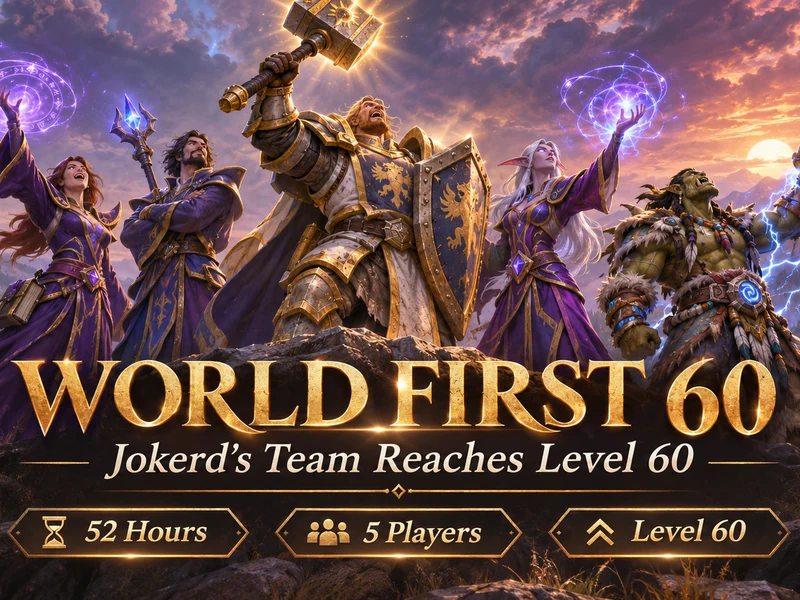
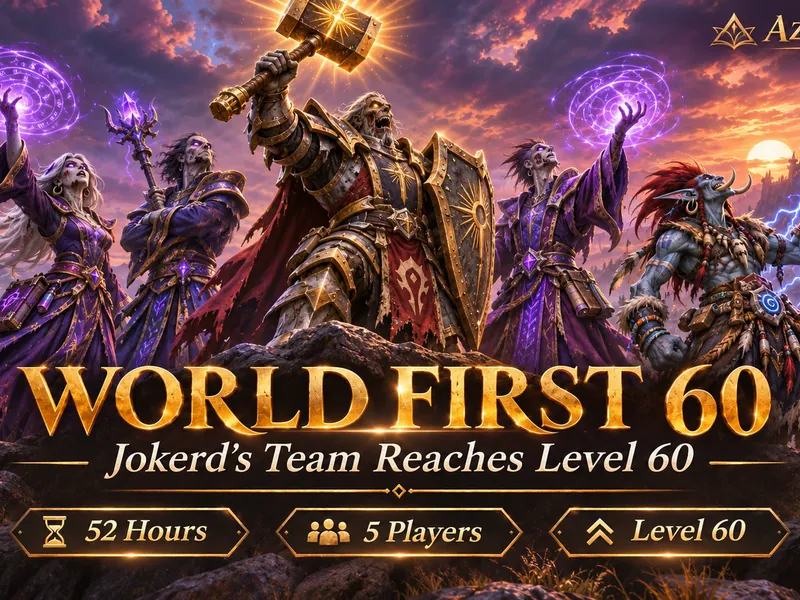
feat(news): swap in Horde World First 60 poster, drop sources block, rebalance footer
- New owner-supplied poster (3 Undead Mages, Undead Paladin, Troll Shaman, AzerDex logo); variants re-exported from the new master.
- Remove the closing Sources and notes section from the article.
- SiteFooter: two-column top row, legal text moved to a full-width, smaller, quieter row; content and links unchanged.

Claude-Session: https://claude.ai/code/session_012Roc8RkotZc4RdkaZrsvDp

diff --git a/web/src/components/SiteFooter.tsx b/web/src/components/SiteFooter.tsx
@@ -4,30 +4,32 @@ import { ConsentSettingsButton } from "@/components/consent/ConsentSettingsButto
 export function SiteFooter() {
   return (
     <footer className="mt-16 border-t border-ink-700/80 bg-ink-950">
-      <div className="mx-auto grid max-w-7xl gap-8 px-4 py-10 text-sm text-mist md:grid-cols-3">
-        <div>
-          <p className="font-[family-name:var(--font-display)] text-base text-gold-300">AzerDex</p>
-          <p className="mt-1 text-xs uppercase tracking-[0.2em] text-mist">Know Your World.</p>
-          <p className="mt-2 leading-relaxed">
-            A community-collected, observation-based database for World of Warcraft: Forever, built from the ForeverDB
-            addon and Companion. Percentages are <strong className="text-parchment">observed sample rates</strong>,
-            not official drop chances.
-          </p>
+      <div className="mx-auto max-w-7xl px-4 py-10 text-sm text-mist">
+        <div className="grid gap-8 md:grid-cols-[minmax(0,1.4fr)_minmax(0,1fr)] md:gap-16">
+          <div className="max-w-xl">
+            <p className="font-[family-name:var(--font-display)] text-lg text-gold-300">AzerDex</p>
+            <p className="mt-1 text-xs uppercase tracking-[0.2em] text-mist">Know Your World.</p>
+            <p className="mt-3 leading-relaxed">
+              A community-collected, observation-based database for World of Warcraft: Forever, built from the ForeverDB
+              addon and Companion. Percentages are <strong className="text-parchment">observed sample rates</strong>,
+              not official drop chances.
+            </p>
+          </div>
+          <nav aria-label="Footer">
+            <ul className="grid grid-cols-2 gap-x-6 gap-y-2.5">
+              <li><Link href="/about/data">How the data works</Link></li>
+              <li><Link href="/about/privacy">Privacy</Link></li>
+              <li><ConsentSettingsButton /></li>
+              <li><Link href="/addon-companion">Addon &amp; Companion</Link></li>
+              <li><Link href="/news/rss.xml">RSS feed</Link></li>
+              <li><Link href="/zones">All zones</Link></li>
+              <li><a href="https://github.com/Imemoth/wow-foreverdb" rel="noopener noreferrer">Source on GitHub</a></li>
+            </ul>
+          </nav>
         </div>
-        <nav aria-label="Footer">
-          <ul className="grid grid-cols-2 gap-2">
-            <li><Link href="/about/data">How the data works</Link></li>
-            <li><Link href="/about/privacy">Privacy</Link></li>
-            <li><ConsentSettingsButton /></li>
-            <li><Link href="/addon-companion">Addon &amp; Companion</Link></li>
-            <li><Link href="/news/rss.xml">RSS feed</Link></li>
-            <li><Link href="/zones">All zones</Link></li>
-            <li><a href="https://github.com/Imemoth/wow-foreverdb" rel="noopener noreferrer">Source on GitHub</a></li>
-          </ul>
-        </nav>
         {/* "Independent, free, non-commercial fan project" is an explicit, owner-approved designation. Changes to project
             ownership, licensing, commercial status or monetization wording need explicit owner approval. */}
-        <p className="leading-relaxed">
+        <p className="mt-8 border-t border-ink-700/60 pt-6 text-xs leading-relaxed text-mist/75">
           AzerDex is an independent, free, non-commercial fan project and is not affiliated with or endorsed by Blizzard Entertainment, Inc.
           World of Warcraft and related names are trademarks or registered trademarks of Blizzard Entertainment, Inc.
           &copy; Blizzard Entertainment, Inc. All rights reserved. Zone map images, talent and ability names, descriptions

diff --git a/web/tests/unit/world-first-article.test.ts b/web/tests/unit/world-first-article.test.ts
@@ -15,7 +15,7 @@ import { pickLeadArticle } from "@/components/news/NewsFeatureLead";
 const SLUG = "jokerd-team-world-first-level-60-wow-forever";
 const PUBLIC = join(process.cwd(), "public");
 const article = loadAllArticles().find((a) => a.slug === SLUG)!;
-const bodyText = article.body.split("## Sources and notes")[0]!;
+const bodyText = article.body;
 
 function webpSize(file: string): { width: number; height: number } {
   const b = readFileSync(file);
@@ -55,17 +55,12 @@ describe("world first article: content", () => {
 
   it("is never presented as an official Blizzard announcement and invents no quotes", () => {
     expect(bodyText).toMatch(/not a Blizzard announcement/i);
-    expect(article.body).toMatch(/not affiliated with Blizzard/i);
     expect(bodyText).not.toMatch(/[“"][^"”\n]{12,}[”"]/); // no quoted speech in the body
   });
 
-  it("cites the three primary sources over https and hotlinks no competitor images", () => {
-    const urls = [...article.body.matchAll(/\]\((https:\/\/[^)\s]+)\)/g)].map((m) => m[1]!);
-    expect(urls).toEqual(expect.arrayContaining([
-      "https://www.wowhead.com/forever/news/world-first-level-60s-in-wow-forever-in-less-than-three-days-383797",
-      "https://www.icy-veins.com/wow-forever/news/three-mages-a-paladin-and-a-shaman-hit-level-60-first-in-wow-forever/",
-      "https://www.warcrafttavern.com/forever/news/world-first-level-60s-in-wow-forever-paladin-shaman-3-mages/",
-    ]));
+  it("renders no closing sources block and hotlinks no external or competitor images", () => {
+    expect(extractGuideToc(article.body).map((t) => t.text.toLowerCase())).not.toContain("sources and notes");
+    expect(article.body).not.toMatch(/https?:\/\//);
     expect(article.body).not.toMatch(/!\[/);
   });
 

diff --git a/docs/azerdex-world-first-art/provenance.md b/docs/azerdex-world-first-art/provenance.md
@@ -4,18 +4,17 @@ Two layers, both for `web/content/news/jokerd-team-world-first-level-60-wow-fore
 
 ## Primary cover: owner-supplied poster
 
-Status: **owner-supplied illustration, supplied in the PR #178 follow-up request on 2026-11-08.** It is the "WORLD FIRST 60"
-poster (three Mages, a Paladin with a raised warhammer, a Shaman, headline and 52 Hours / 5 Players / Level 60 badges baked
+Status: **owner-supplied illustration, supplied in the PR #178 follow-up request on 2026-11-09 (replacing the first poster supplied on 2026-11-08).** Per the owner, it was generated with OpenAI ChatGPT image generation on 2026-11-09. It is the "WORLD FIRST 60"
+poster (three Undead Mages, an Undead Paladin with a raised warhammer, a Troll Shaman, Horde banners, AzerDex™ logo, headline and 52 Hours / 5 Players / Level 60 badges baked
 into the art). It is not a game screenshot and not a competitor image, and nothing is hotlinked.
 
-- **Not recorded:** how it was made (generator/model, prompts) and any licence terms of that tool. The owner supplied it for this
-  use; if terms or prompts are on file, add them here. This record does not guess.
-- The poster's characters are illustrative; it is not evidence of the players' races (the article states races from tracker
-  reports, and the Shaman is reported as a Troll).
+- **Origin (owner's statement):** OpenAI ChatGPT image generation, 2026-11-09. **Not recorded:** the exact model version, prompts, and the licence terms of that service; add them here if on file. This record does not guess.
+- It shows three Undead Mages, an Undead Paladin and a Troll Shaman under Horde banners, with the AzerDex™ logo, matching the races
+  in tracker reports. The characters remain illustrative, not portraits of the real players.
 - The master (1672x941, re-encoded as WebP q96) is kept in `docs/azerdex-world-first-art/masters/`. That directory is
   documentation only; it is not under `web/public` and is never served.
 - Variants are cut by `web/scripts/content-art/export-world-first-60-poster.mjs` (crop to exact aspect, one lanczos3 resize,
-  WebP q88, nothing stretched or repainted):
+  WebP q80, nothing stretched or repainted):
 
 | File (`web/public/content-images/news/`) | Size | Used for |
 | --- | --- | --- |

diff --git a/web/content/news/jokerd-team-world-first-level-60-wow-forever.md b/web/content/news/jokerd-team-world-first-level-60-wow-forever.md
@@ -11,7 +11,7 @@ sample: false
 featured: true
 cover:
   src: /content-images/news/jokerd-team-world-first-level-60-wow-forever.webp
-  alt: "Poster: three Mages, a Paladin raising a golden warhammer and a lightning-wreathed Shaman on a summit at sunset, titled WORLD FIRST 60 with badges 52 Hours, 5 Players, Level 60"
+  alt: "Poster: three Undead Mages, an Undead Paladin raising a golden warhammer and a Troll Shaman wreathed in lightning beneath Horde banners, titled WORLD FIRST 60 with the AzerDex logo"
   attribution: Owner-supplied AzerDex editorial illustration
 related:
   articles: [blog/wow-forever-beginners-guide-2026, blog/wow-forever-new-race-class-combinations]
@@ -62,13 +62,3 @@ For anyone planning their own journey, the lesson is portable. Read the class pa
 To Jokerd Prime, Burning Speed, Vitochie Gofast, Cloud Bells and Lmgd Mmr: congratulations. You turned a launch weekend into a story, and you proved that the fastest way to the top of Azeroth can also be the most generous. Every player who logs in this week has a new benchmark to look up at, and a reminder that the best races are run in company.
 
 See you at 60.
-
-## Sources and notes
-
-AzerDex Editorial compiled this report from public community coverage; all figures are as reported there, and timings are approximate.
-
-- Wowhead: [World First Level 60s in WoW: Forever in Less Than Three Days](https://www.wowhead.com/forever/news/world-first-level-60s-in-wow-forever-in-less-than-three-days-383797)
-- Icy Veins: [Three Mages, a Paladin and a Shaman Hit Level 60 First in WoW: Forever](https://www.icy-veins.com/wow-forever/news/three-mages-a-paladin-and-a-shaman-hit-level-60-first-in-wow-forever/)
-- Warcraft Tavern: [World First Level 60s in WoW: Forever, Paladin, Shaman and 3 Mages](https://www.warcrafttavern.com/forever/news/world-first-level-60s-in-wow-forever-paladin-shaman-3-mages/)
-
-AzerDex is a fan-made project and is not affiliated with Blizzard Entertainment. This article is original AzerDex editorial writing. Its cover is an original AzerDex illustration, not a game screenshot.
